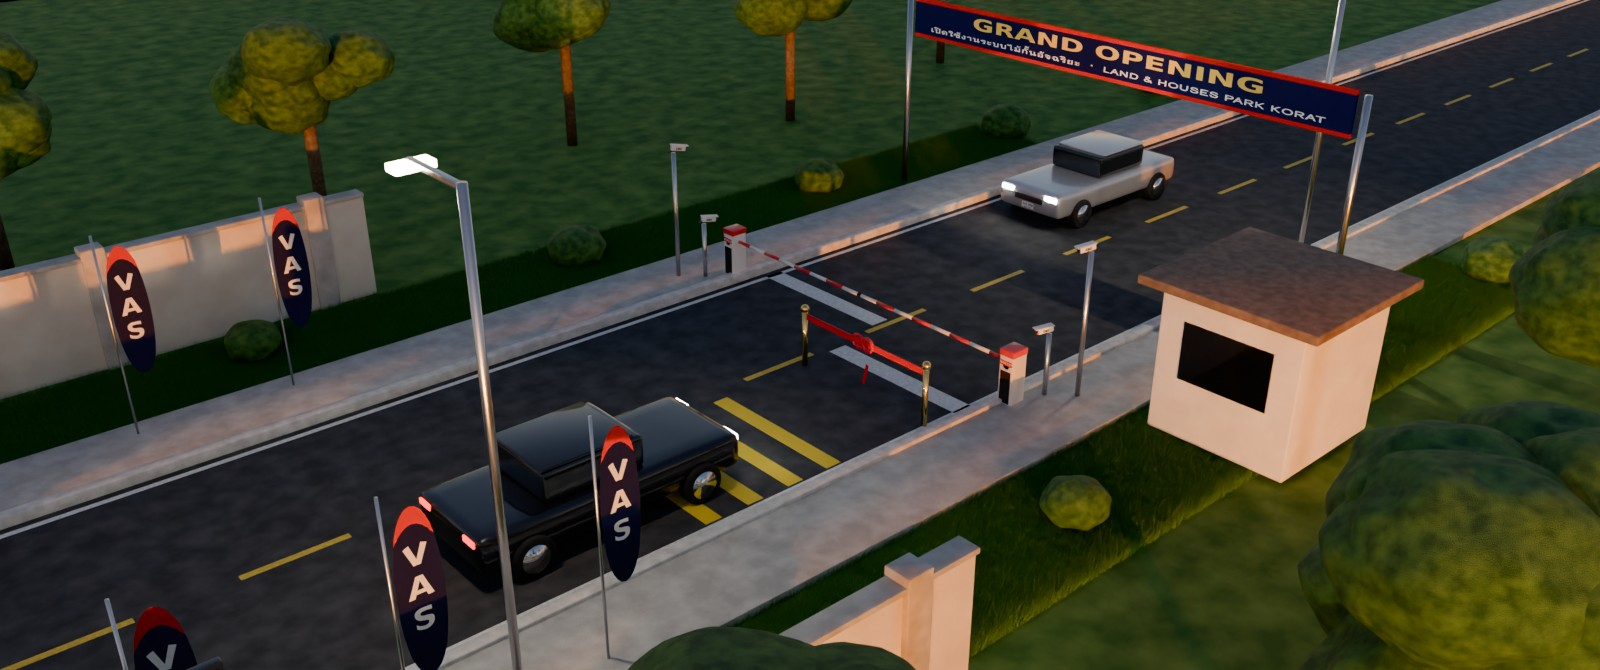
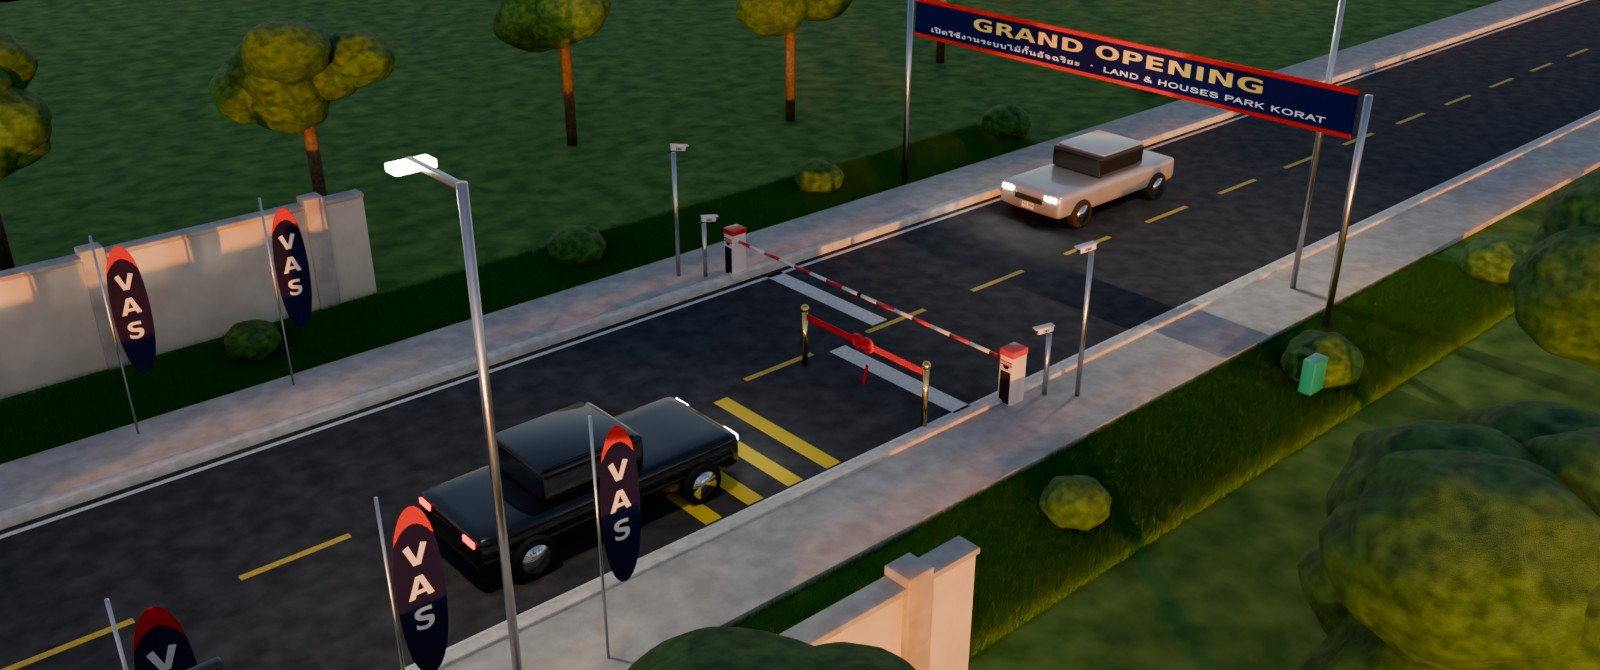
G3 cinematic renders without guardhouse (Street View)
Claude-Session: https://claude.ai/code/session_01PMeHSTVwzn8wmXUSK7S9sW

Changed region(s): [[0.6875, 0.3284, 0.9062, 0.7463], [0.5938, 0.209, 0.7188, 0.3284]]

diff --git a/camera-plan/blender/cinematic/index.html b/camera-plan/blender/cinematic/index.html
@@ -53,7 +53,7 @@ figcaption{padding:8px 12px;font-size:.85rem;color:var(--muted);background:var(-
   </section>
 
   <section>
-    <h2><b>G3</b> ด้านหลัง ฝั่งเหนือซอย 4 <small>ไม้กั้นริมถนน ตู้แนวเดียวกัน · ถนน 7.0 ม. · แขน 3.70 ม. ×2</small></h2>
+    <h2><b>G3</b> ด้านหลัง ฝั่งเหนือซอย 4 <small>ไม้กั้นริมถนน ตู้แนวเดียวกัน · ไม่มีป้อมยาม · ถนน 7.0 ม. · แขน 3.70 ม. ×2</small></h2>
     <figure><img src="G3_hero.jpg" alt="G3 มุมหลัก"><figcaption>มุมหลักช่วงพลบค่ำ (blue hour) ไฟถนนและไฟรถเปิด</figcaption></figure>
     <div class="grid">
       <figure><img src="G3_aerial.jpg" alt="G3 มุมสูง"><figcaption>มุมโดรน</figcaption></figure>
